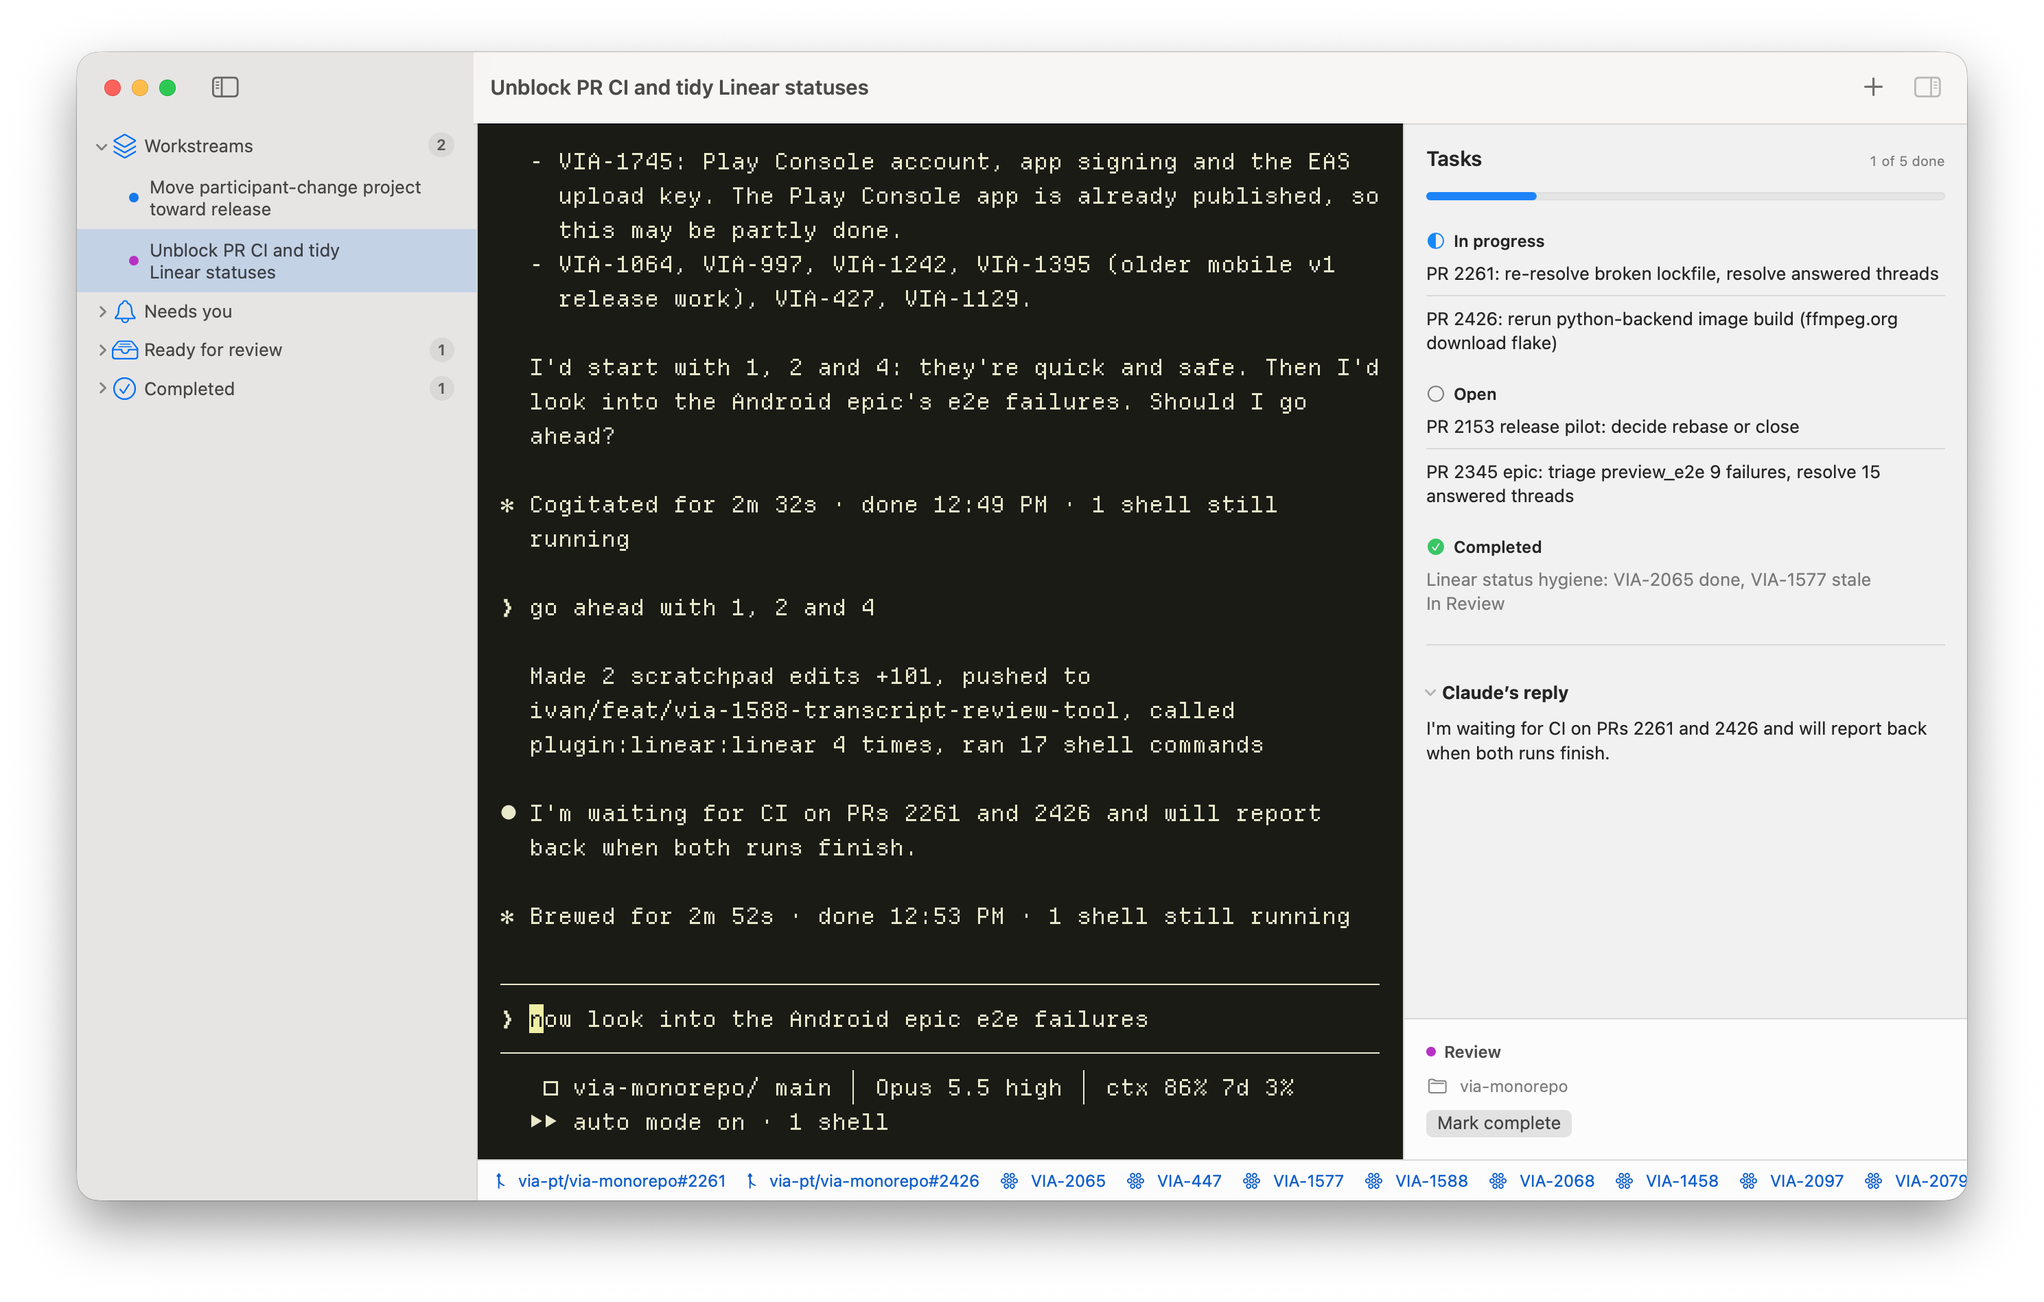
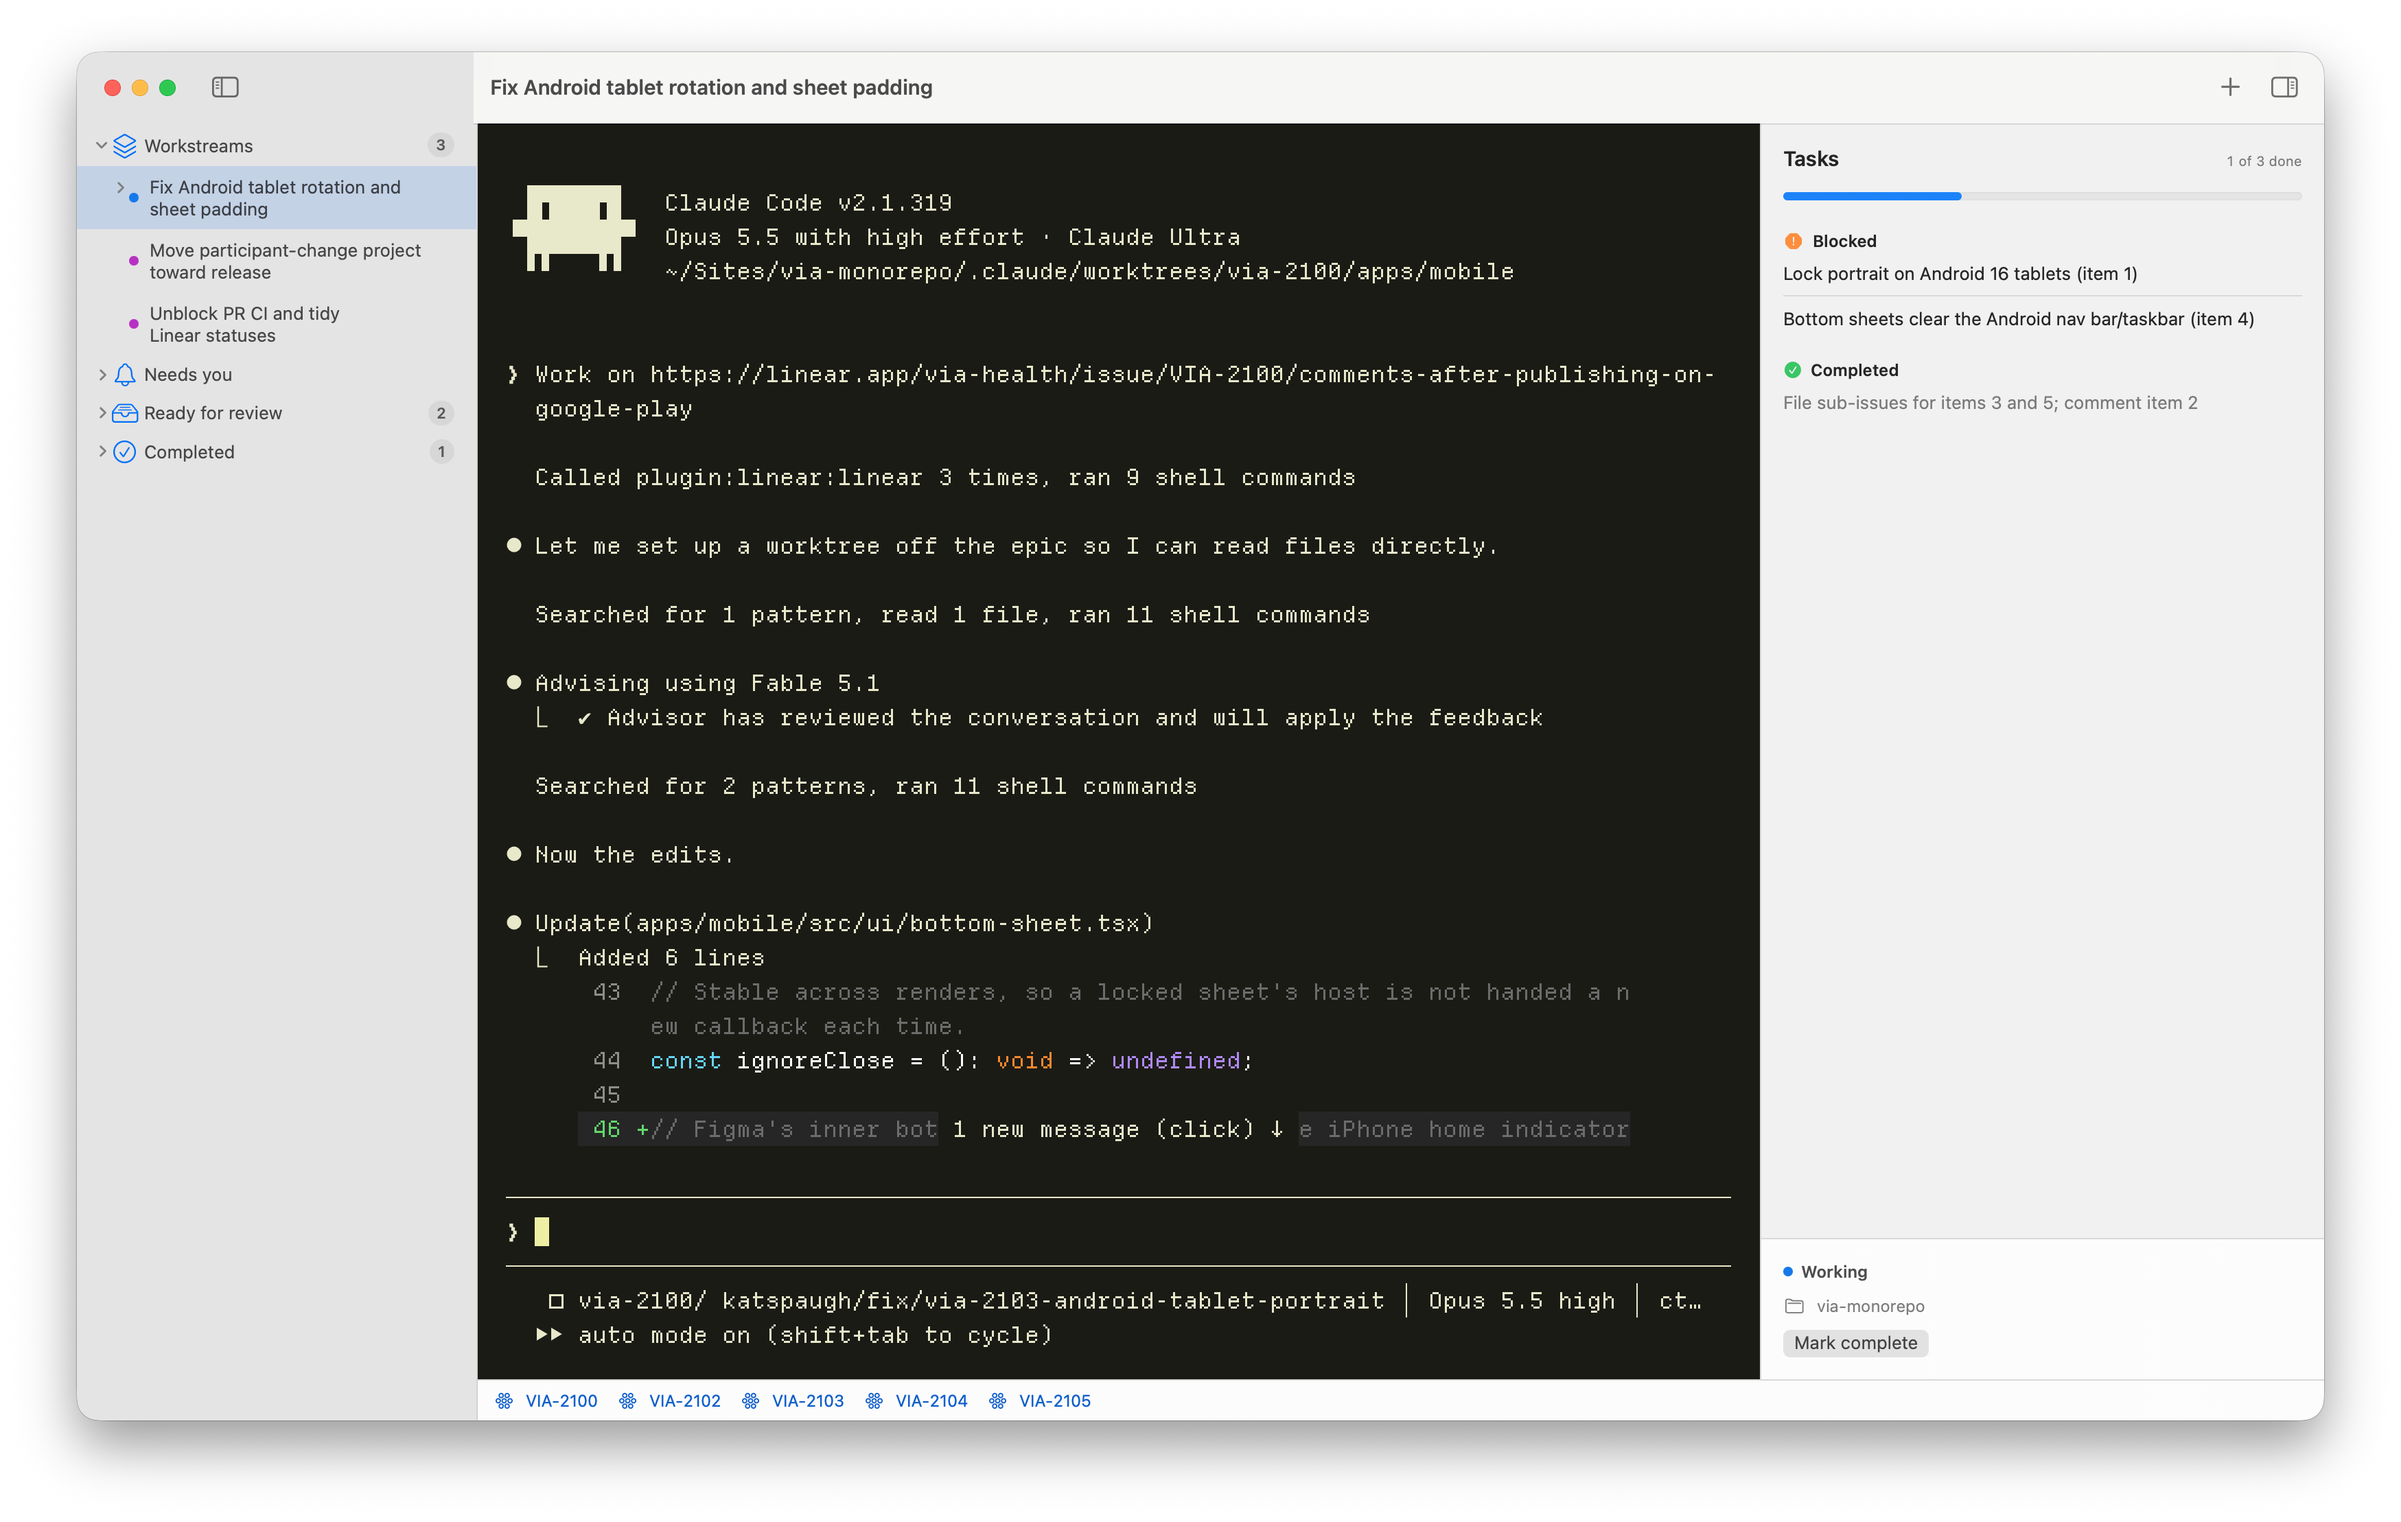
Refresh README screenshot with an active Claude workstream

diff --git a/README.md b/README.md
@@ -4,7 +4,7 @@
 
 Each workstream has a persistent terminal, a task list Claude maintains in Beads, and links to the pull requests and Linear issues it touches. When one session asks for permission or finishes a turn, it appears under **Needs you** or **Ready for review** in the sidebar.
 
-![Muxteroid showing two workstreams, an embedded Claude Code terminal, tasks grouped by status, and links to pull requests and Linear issues.](docs/images/workstreams.png)
+![Three workstreams in Muxteroid. Claude Code edits an Android layout in the selected terminal, with blocked and completed tasks on the right and Linear issue links below.](docs/images/workstreams.png)
 
 ## Try it on your Mac
 
